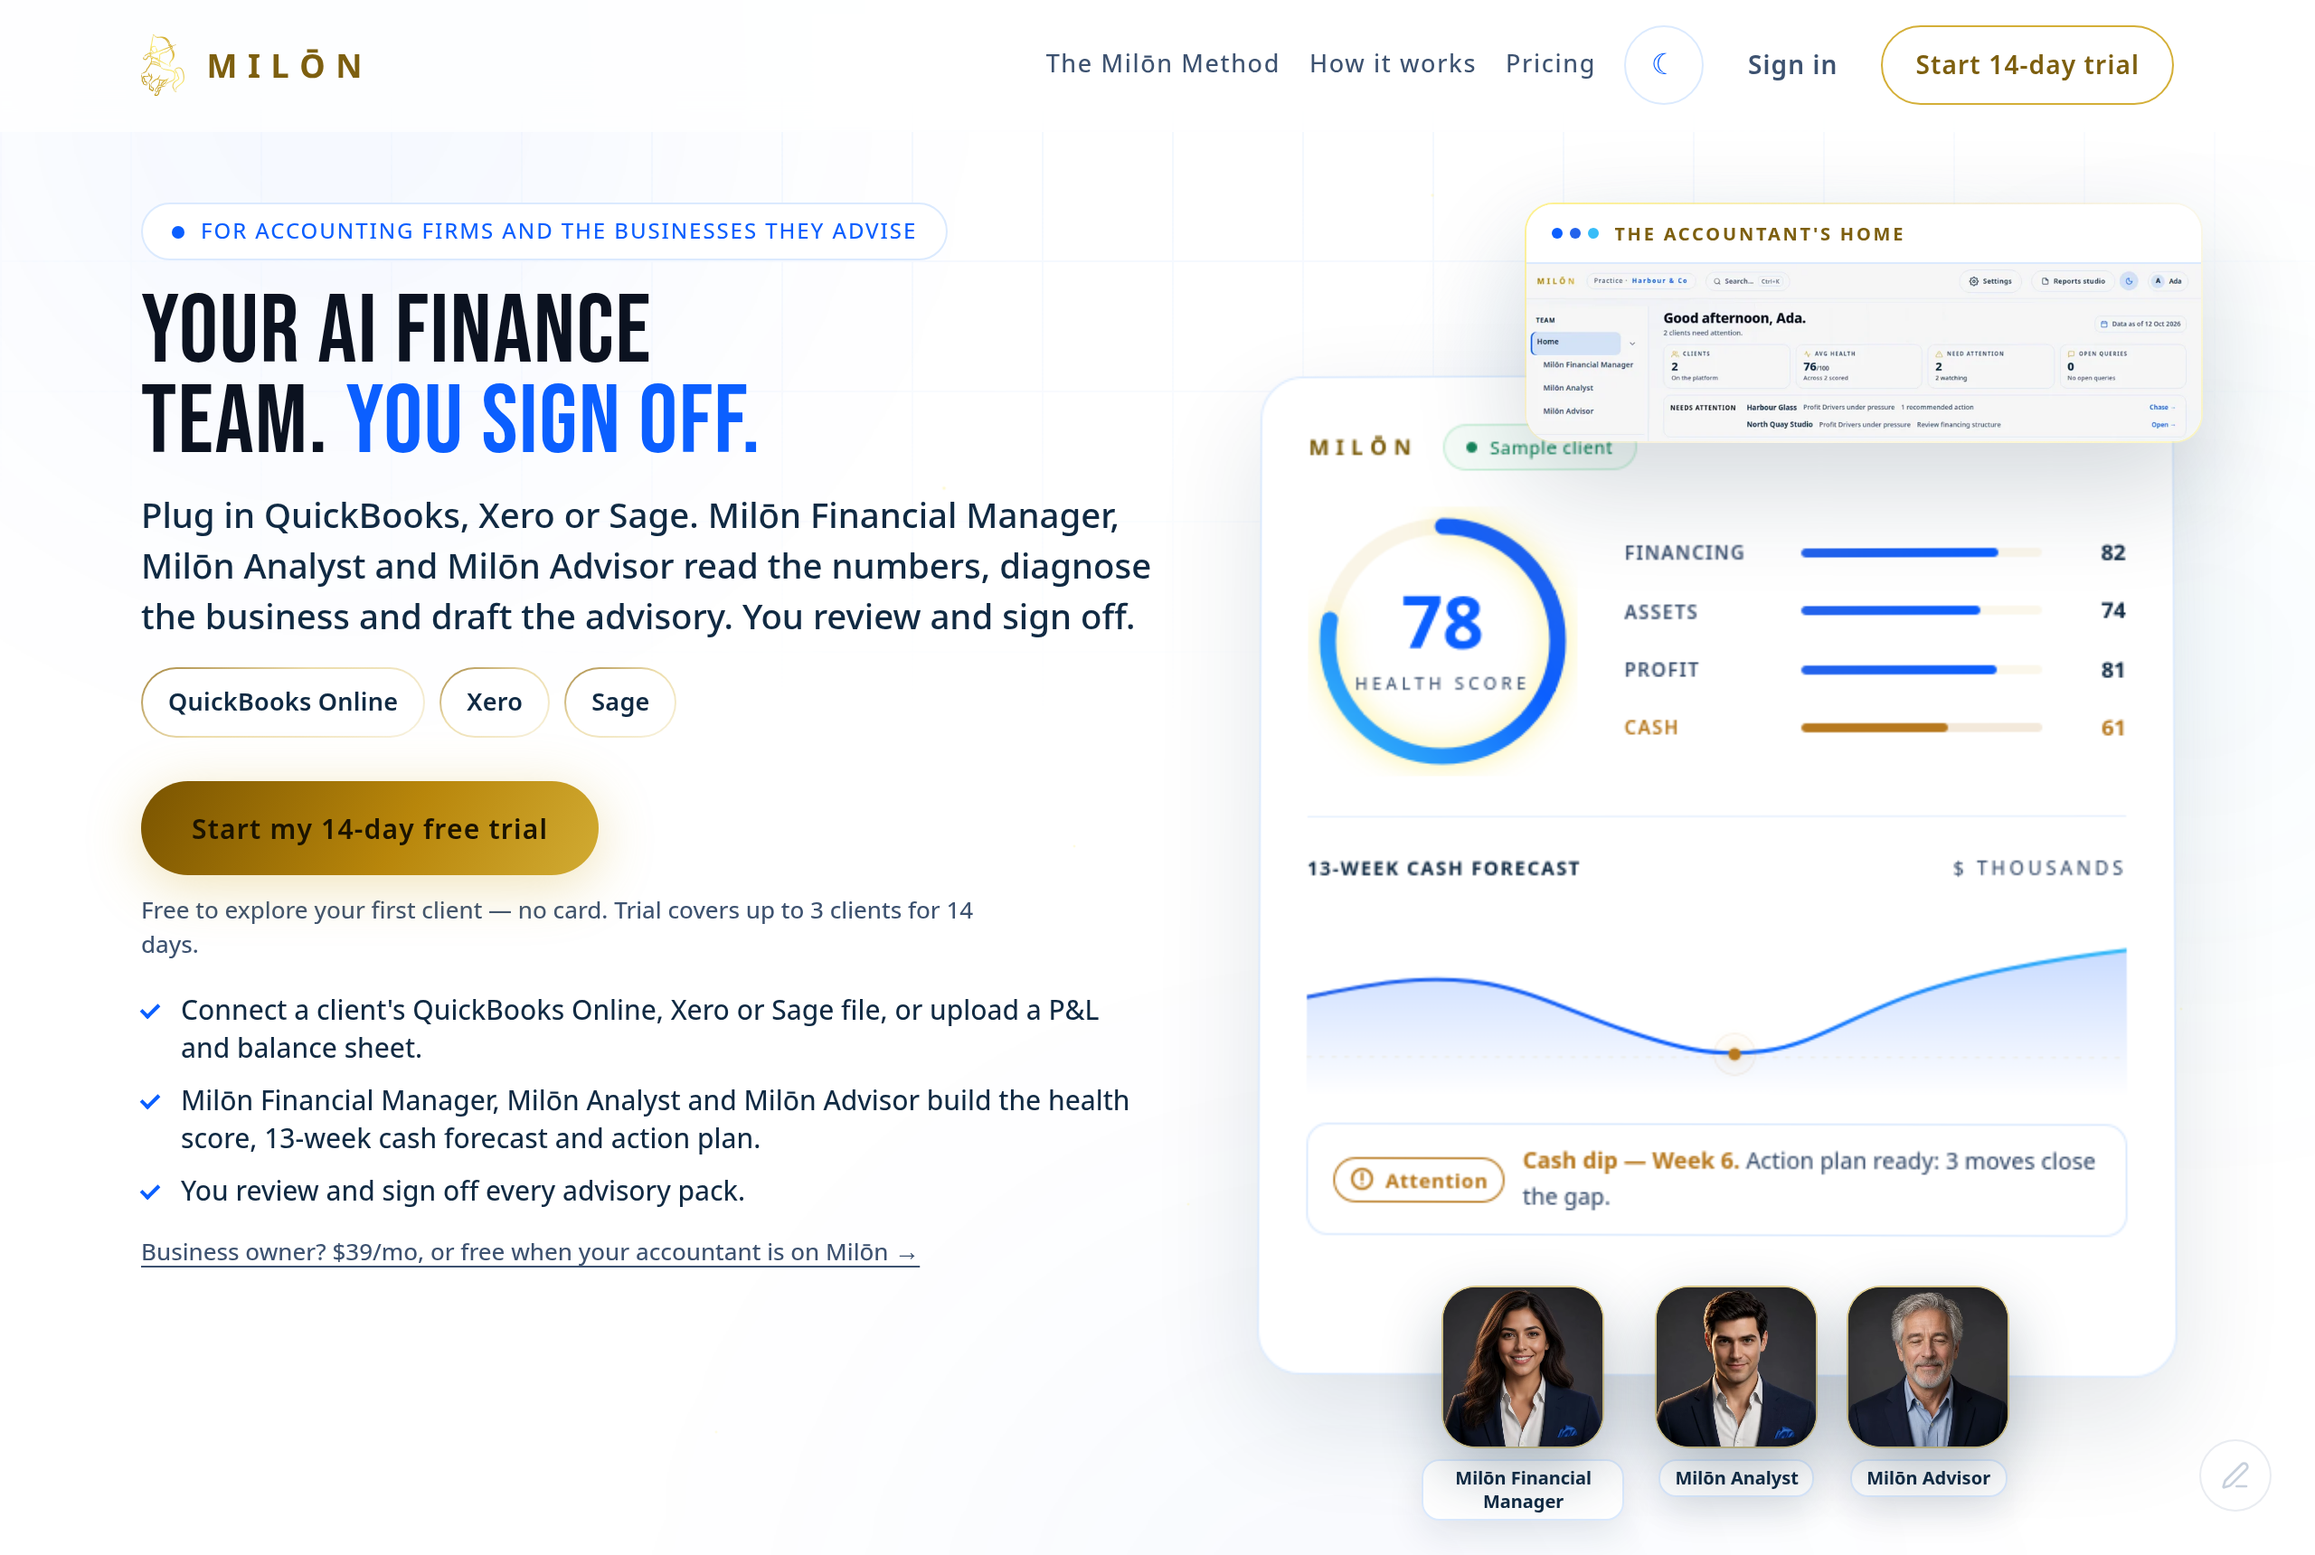
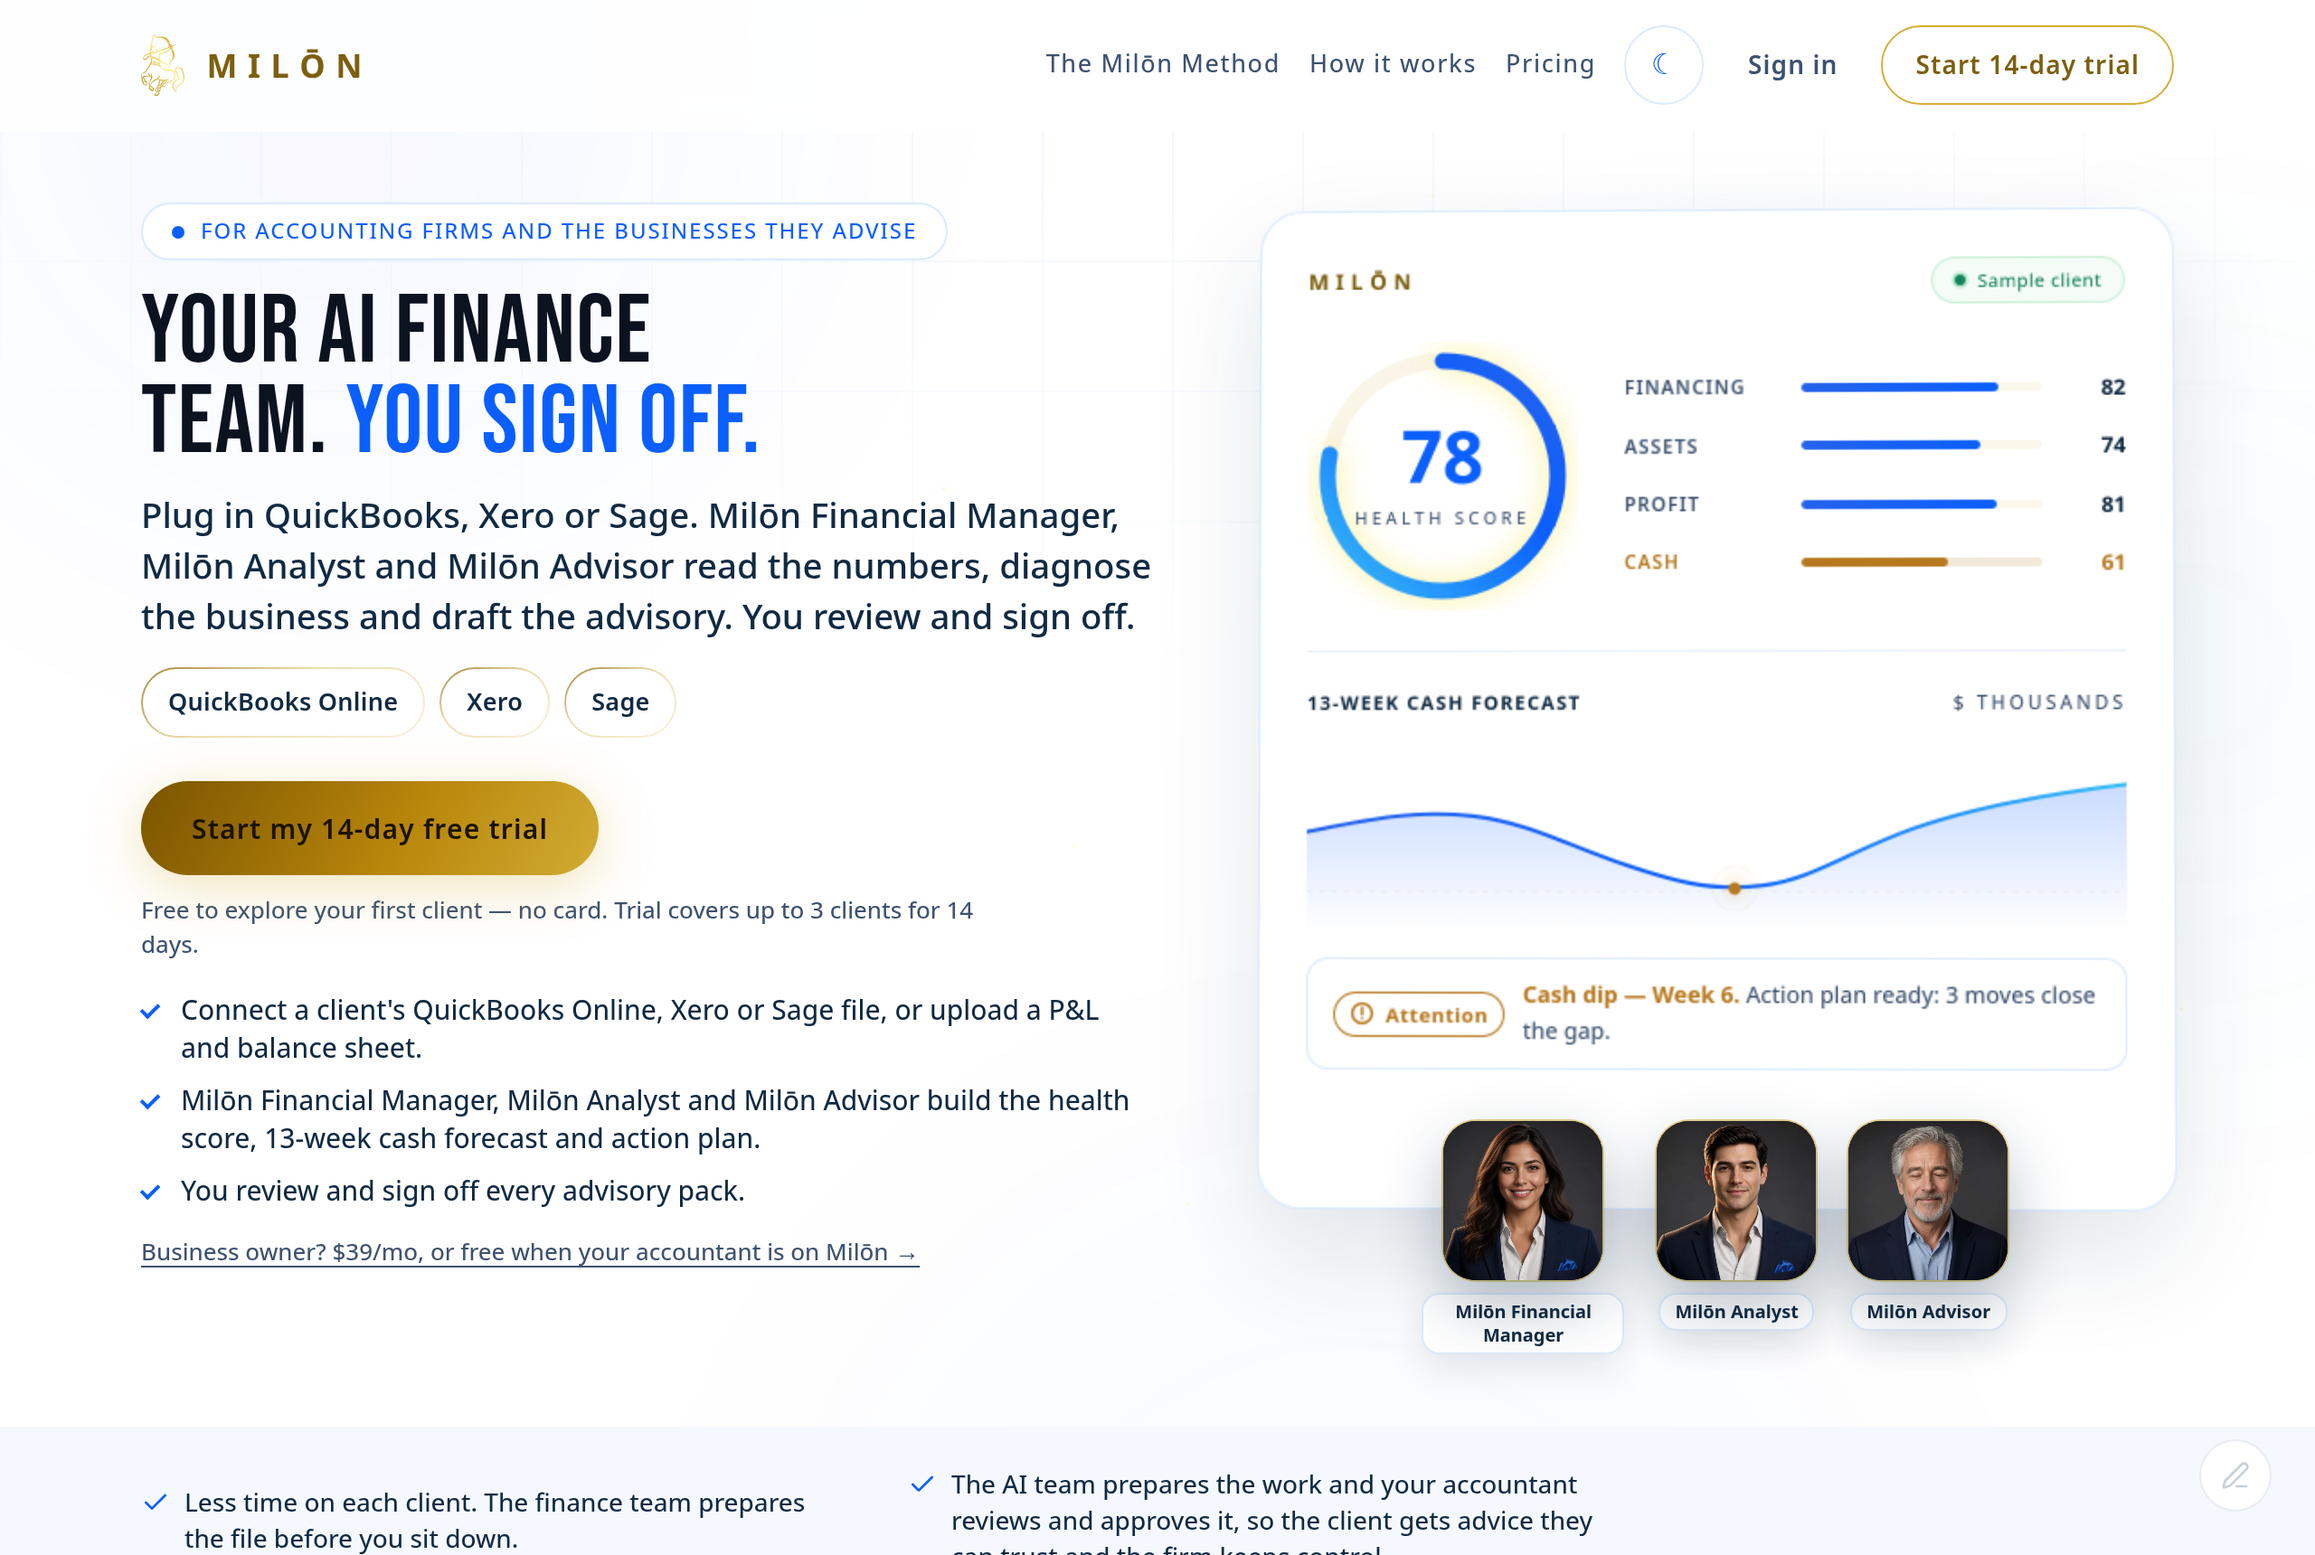
Hero: drop the accountant-home card; report and display-only agents carry the stage

diff --git a/src/styles/landing.css b/src/styles/landing.css
@@ -1809,43 +1809,8 @@ html[data-landing="1"] .alert-chip .attention-chip{
 }
 html[data-landing="1"] .alert-chip .attention-chip svg{display:block}
 
-/* ── Hero rework: the finance report stays; the accountant-home card layers
-   over its top-right corner and the three agents stand on its lower band. ── */
-html[data-landing="1"] .hero-shot{
-  margin:0;
-  border-radius:16px;
-  overflow:hidden;
-  background:linear-gradient(var(--card),var(--card)) padding-box,
-             linear-gradient(150deg,rgba(253,238,121,.85),rgba(212,175,55,.22) 38%,rgba(212,175,55,.1) 62%,rgba(253,238,121,.45)) border-box;
-  border:1px solid transparent;
-  box-shadow:0 24px 60px rgba(16,42,67,.18);
-}
-html[data-landing="1"] .hero-shot figcaption{
-  display:flex;
-  align-items:center;
-  gap:9px;
-  padding:8px 14px;
-  font-size:10px;
-  font-weight:700;
-  letter-spacing:.14em;
-  text-transform:uppercase;
-  color:var(--gold-ink);
-  -webkit-text-fill-color:var(--gold-ink);
-  border-bottom:1px solid var(--line);
-  background:var(--card);
-}
-html[data-landing="1"] .hero-shot figcaption span:not(.hero-shot-dots){
-  white-space:nowrap;
-  overflow:hidden;
-  text-overflow:ellipsis;
-}
-html[data-landing="1"] .hero-shot-dots{display:inline-flex;gap:4px;flex:none}
-html[data-landing="1"] .hero-shot-dots i{width:6px;height:6px;border-radius:50%}
-html[data-landing="1"] .hero-shot-dots i:nth-child(1){background:var(--cobalt)}
-html[data-landing="1"] .hero-shot-dots i:nth-child(2){background:var(--royal)}
-html[data-landing="1"] .hero-shot-dots i:nth-child(3){background:var(--ice)}
-html[data-landing="1"] .hero-shot img{display:block;width:100%;height:auto}
-
+/* ── Hero rework: the finance report stays and the three agents stand,
+   display-only, on its lower band. ── */
 html[data-landing="1"] .hero-agents{
   list-style:none;
   margin:0;
@@ -1908,18 +1873,9 @@ html[data-landing="1"] .hero-agent-name{
   html[data-landing="1"] .dash{
     height:auto;
     overflow:visible;
-    margin-top:104px;
+    margin-top:12px;
     padding-bottom:76px;
   }
-  html[data-landing="1"] .hero-shot{
-    position:absolute;
-    top:0;
-    right:-16px;
-    width:min(74%,560px);
-    z-index:4;
-  }
-  /* The sample pill moves next to the mock brand so the card never hides it. */
-  html[data-landing="1"] .dash-top{justify-content:flex-start;gap:14px}
   html[data-landing="1"] .hero-agents{
     position:relative;
     z-index:5;
@@ -1950,9 +1906,8 @@ html[data-landing="1"] .hero-agent-name{
   html[data-landing="1"] .dash-stage{display:flex;flex-direction:column}
   html[data-landing="1"] .dash{order:1}
   html[data-landing="1"] .hero-agents{order:2;margin-top:18px}
-  html[data-landing="1"] .hero-shot{order:3;margin-top:16px}
-  html[data-landing="1"] .fc-1{order:4}
-  html[data-landing="1"] .fc-2{order:5}
+  html[data-landing="1"] .fc-1{order:3}
+  html[data-landing="1"] .fc-2{order:4}
 }
 @media (max-width:420px){
   html[data-landing="1"] .hero-agents{gap:10px}

diff --git a/src/routes/index.tsx b/src/routes/index.tsx
@@ -2014,25 +2014,6 @@ function LandingPage() {
           </div>
 
           <div className="dash-stage hero-mock-fade">
-            <figure className="hero-shot">
-              <figcaption>
-                <span className="hero-shot-dots" aria-hidden="true">
-                  <i />
-                  <i />
-                  <i />
-                </span>
-                <span>The accountant&apos;s home</span>
-              </figcaption>
-              <img
-                src="/hero/accountant-home-960.webp"
-                srcSet="/hero/accountant-home-640.webp 640w, /hero/accountant-home-960.webp 960w, /hero/accountant-home-1280.webp 1280w"
-                sizes="(min-width:1024px) 36vw, (min-width:768px) min(60vw, 528px), calc(100vw - 32px)"
-                width={1280}
-                height={336}
-                alt="The Milōn accountant home for a sample practice: client count, average health, a needs-attention list, and Milōn Financial Manager, Milōn Analyst and Milōn Advisor in the sidebar"
-                decoding="async"
-              />
-            </figure>
             <div className="dash" id="dash" role="img" aria-label={DASH_ARIA_LABEL}>
               <div className="dash-top">
                 <span className="brand">MILŌN</span>
